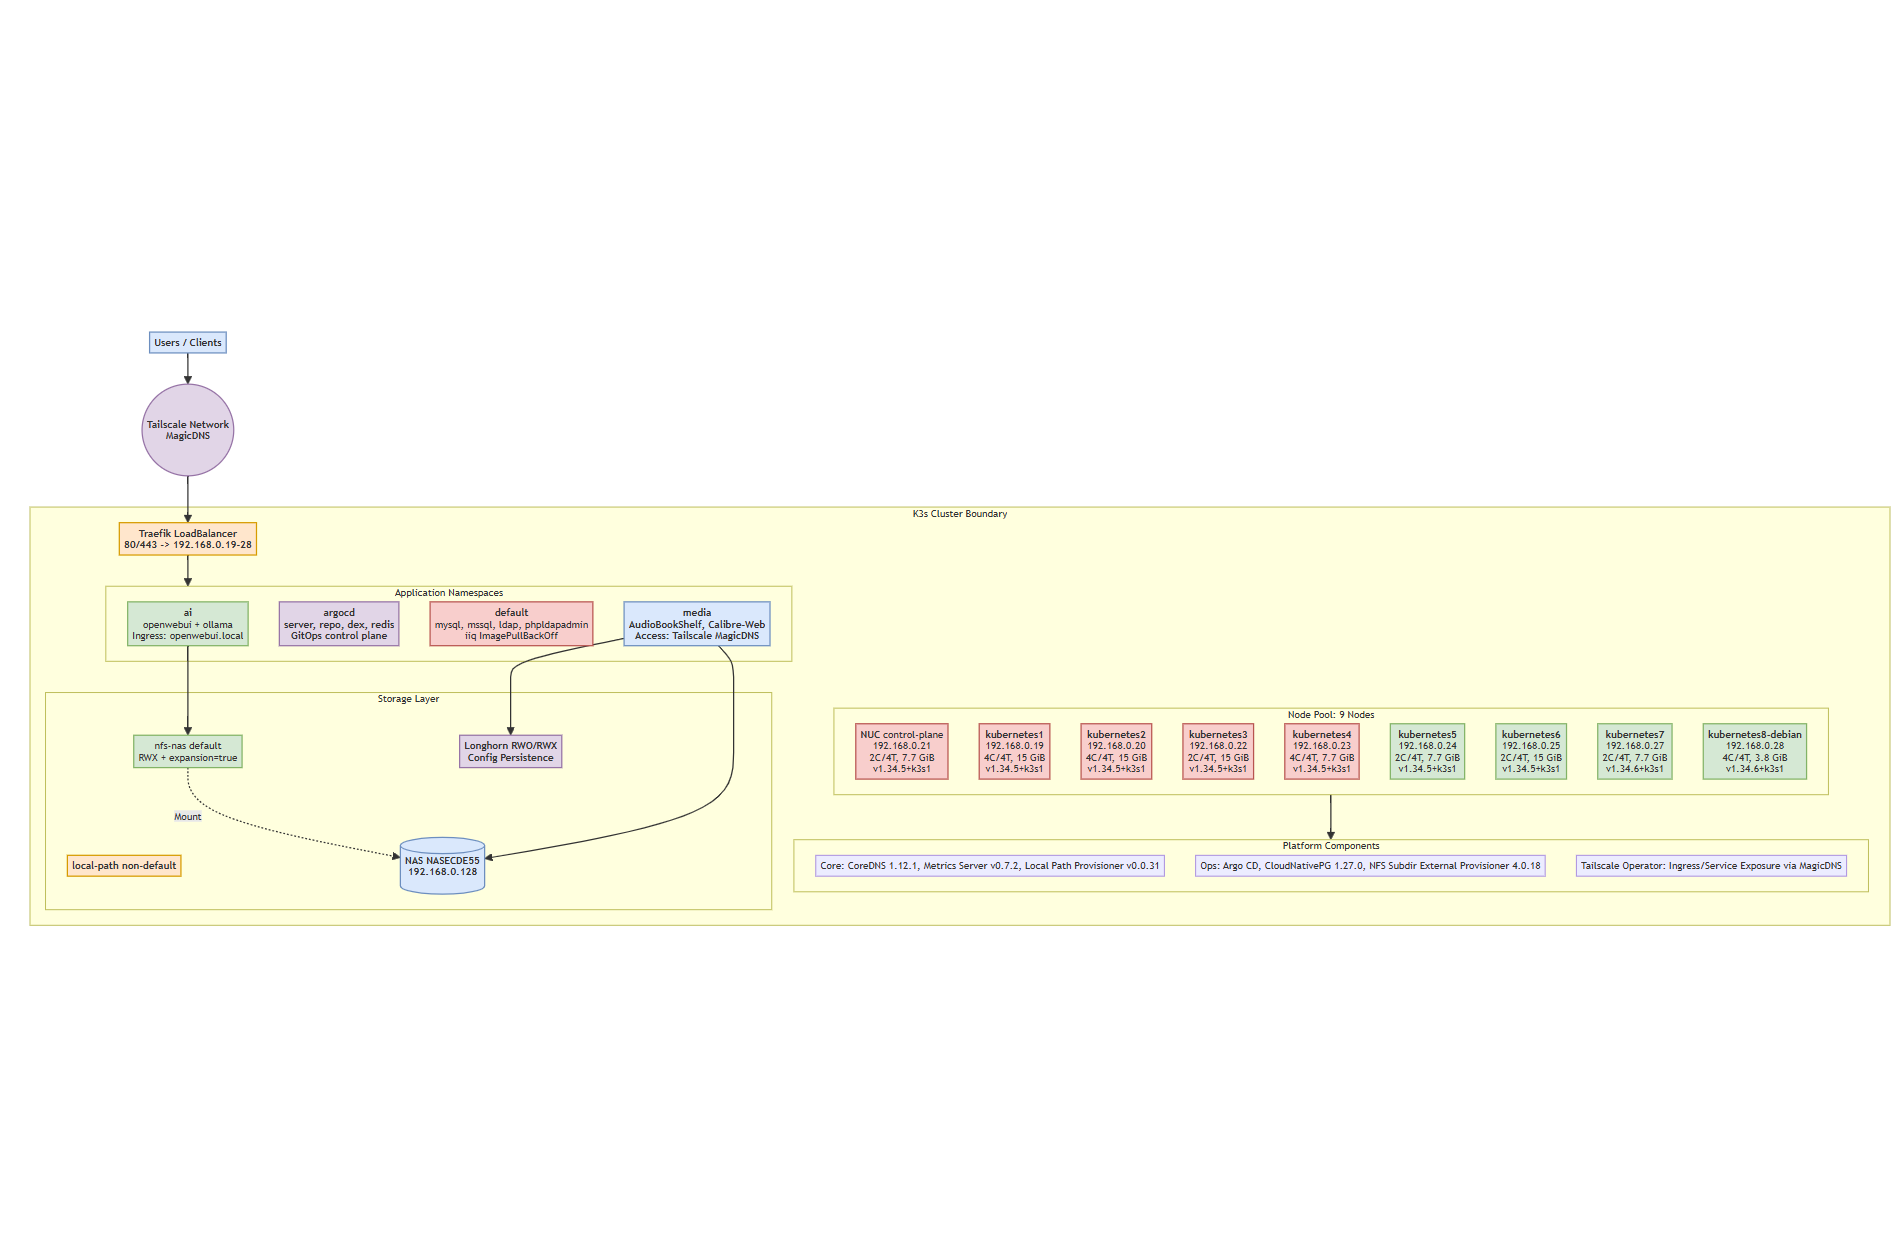
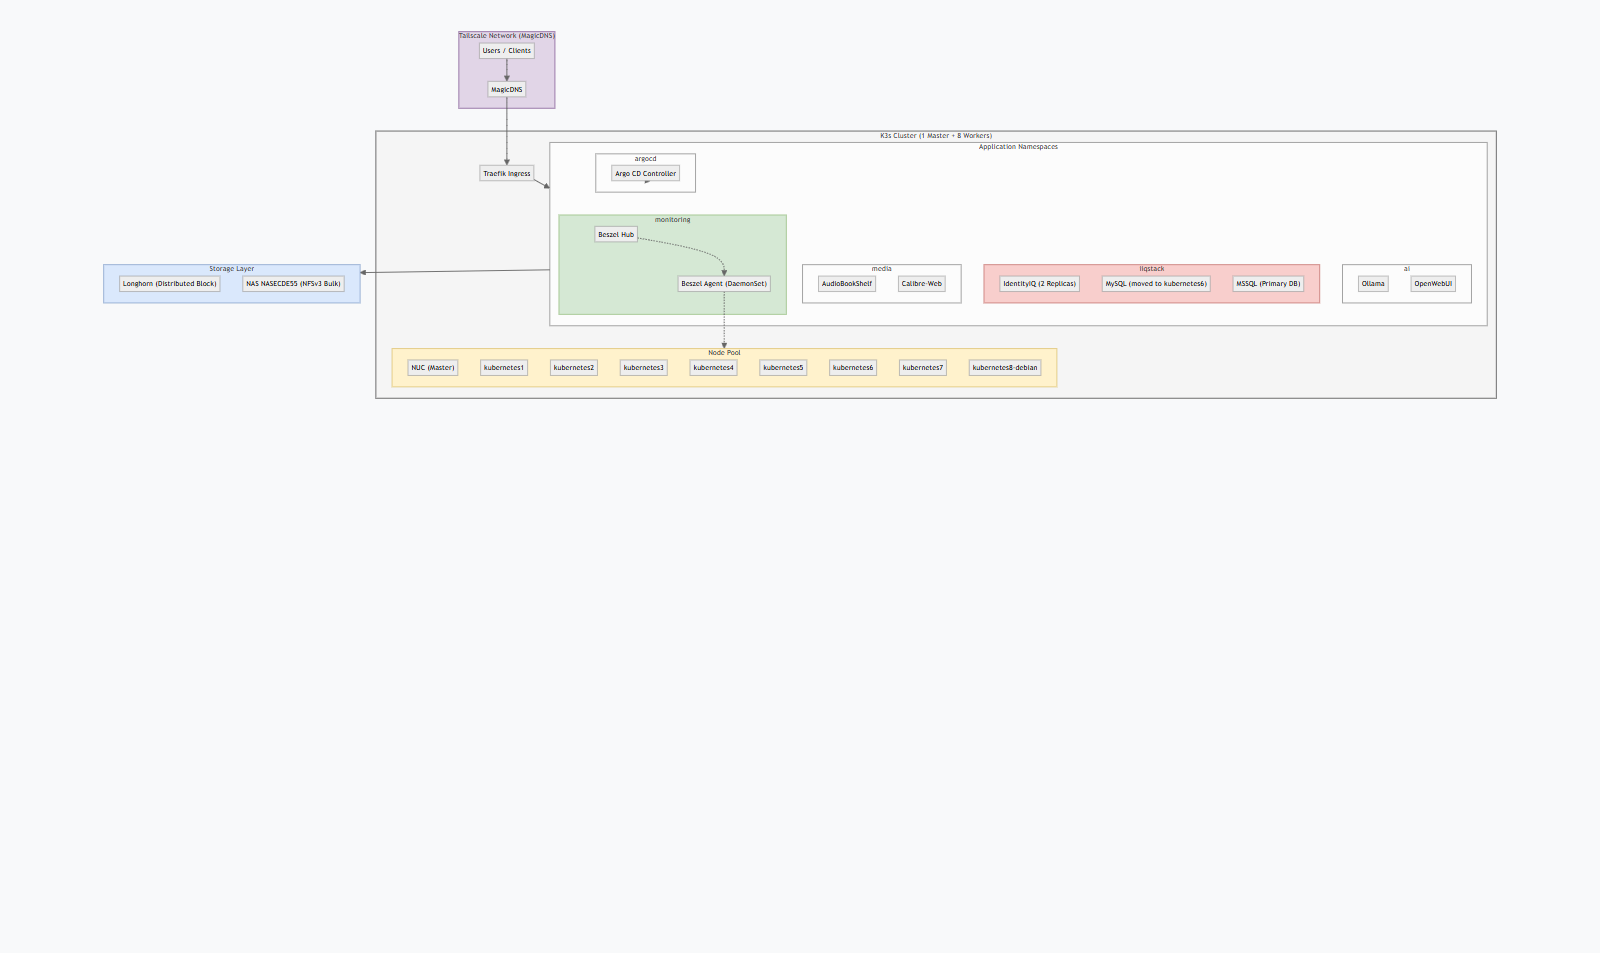
feat(observability): integrate Beszel monitoring and optimize MySQL placement
Deployed Beszel Hub and Agent (DaemonSet) for real-time cluster visibility. Relocated db-mysql-0 to kubernetes6 using node affinity to alleviate load on kubernetes2. Updated homelab architecture diagrams and documentation. Fixed node IPs in scripts.

diff --git a/K3s_Homelab_Template.md b/K3s_Homelab_Template.md
@@ -72,6 +72,7 @@ Stop-K3sHomelab
 | **ActiveMQ UI** | [http://iiq-mq-admin:8161](http://iiq-mq-admin:8161) | http://192.168.0.21:30082 | Middleware Console |
 | **Mailpit UI** | [http://iiq-mail:8025](http://iiq-mail:8025) | http://192.168.0.21:30083 | Email Testing Dashboard |
 | **ArgoCD** | [https://argocd](https://argocd) | https://argocd.example.com | GitOps CD Platform |
+| **Beszel Hub** | [http://beszel](http://beszel) | http://beszel-hub.monitoring.svc | Lightweight Cluster Monitoring |
 | **Longhorn UI** | [http://nuc:30080](http://nuc:30080) | http://192.168.0.21:30080 | Storage Management |
 
 ### Infrastructure Services (Tailscale Access)
@@ -82,6 +83,7 @@ Stop-K3sHomelab
 | **MySQL** | `iiq-db-mysql` | 3306 | Plugin DB |
 | **LDAP** | `iiq-ldap` | 389 | Directory |
 | **SSH Jump** | `iiq-ssh` | 22 | Terminal Access |
+| **Beszel Agent**| N/A (Internal) | 45876 | Node Monitoring (DaemonSet) |
 | **Counter** | `iiq-counter` | 12345 | Demo Service |
 
 ---
@@ -111,12 +113,25 @@ Stop-K3sHomelab
 | **iiqstack** | `db-0` | `kubernetes1` | 42m | 2.1Gi |
 | **iiqstack** | `iiq-55d965997c-7vjd8` | `kubernetes2` | 28m | 1.8Gi |
 | **iiqstack** | `iiq-55d965997c-mp268` | `kubernetes3` | 26m | 1.8Gi |
-| **iiqstack** | `db-mysql-0` | `kubernetes7` | 18m | 450Mi |
+| **iiqstack** | `db-mysql-0` | `kubernetes6` | 22m | 840Mi |
 | **iiqstack** | `activemq-0` | `kubernetes3` | 12m | 256Mi |
 | **ai** | `ollama-*` | `kubernetes7` | 1m | 50Mi |
 | **ai** | `openwebui-*` | `kubernetes7` | 320m | 1.2Gi |
 | **media** | `audiobookshelf-*` | `kubernetes3` | 100m | 256Mi |
 | **media** | `calibre-web-*` | `kubernetes4` | 100m | 256Mi |
+| **monitoring** | `beszel-hub-*` | `kubernetes5` | 15m | 180Mi |
+| **monitoring** | `beszel-agent-*` | *(all nodes)* | 5m | 42Mi |
+
+---
+
+## 📈 Observability & Monitoring
+
+### Beszel (Lightweight Monitoring)
+The cluster uses **Beszel** for real-time performance tracking and container visibility. 
+- **Hub**: Runs in the `monitoring` namespace on `kubernetes5`. 
+- **Agents**: Deployed via DaemonSet to all 9 nodes (including Master).
+- **Socket Access**: Agents mount the K3s containerd socket (`/run/k3s/containerd/containerd.sock`) to provide per-container resource metrics.
+- **Optimization**: Workloads are periodically rebalanced (e.g., MySQL moved to `kubernetes6`) based on Beszel's "live pulse" to prevent node overloads.
 
 ---
 